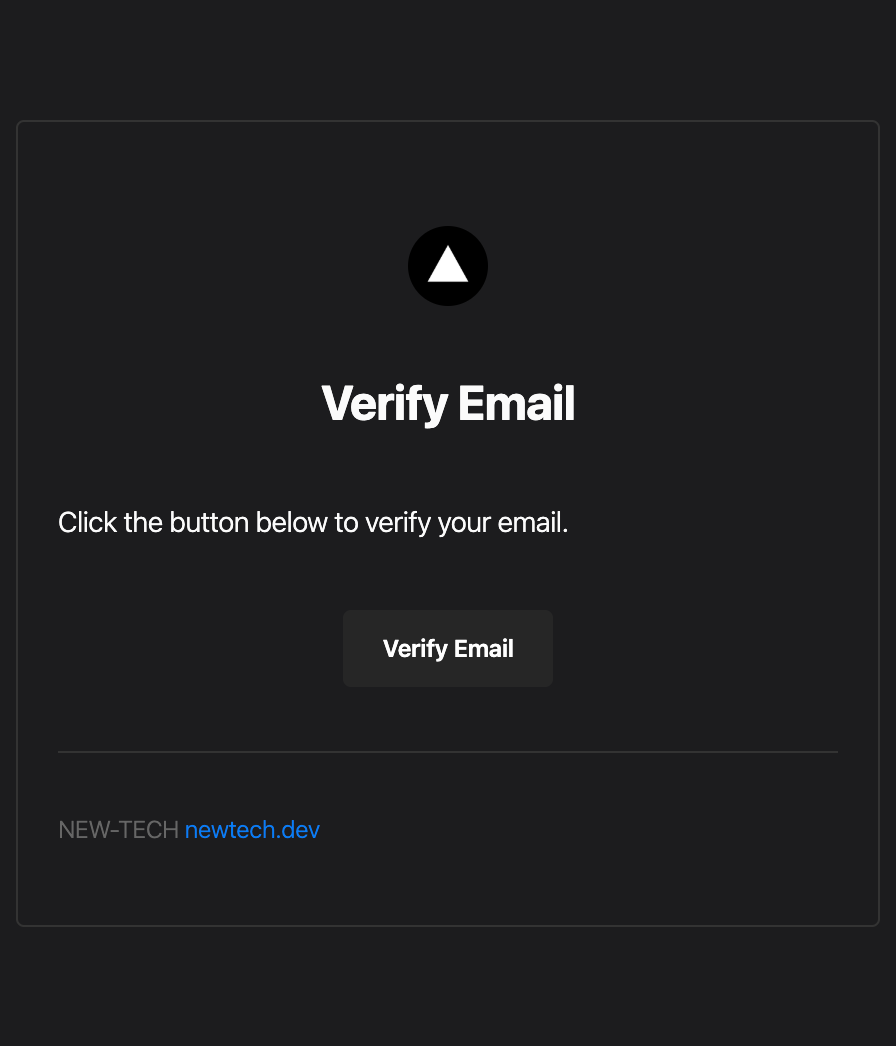
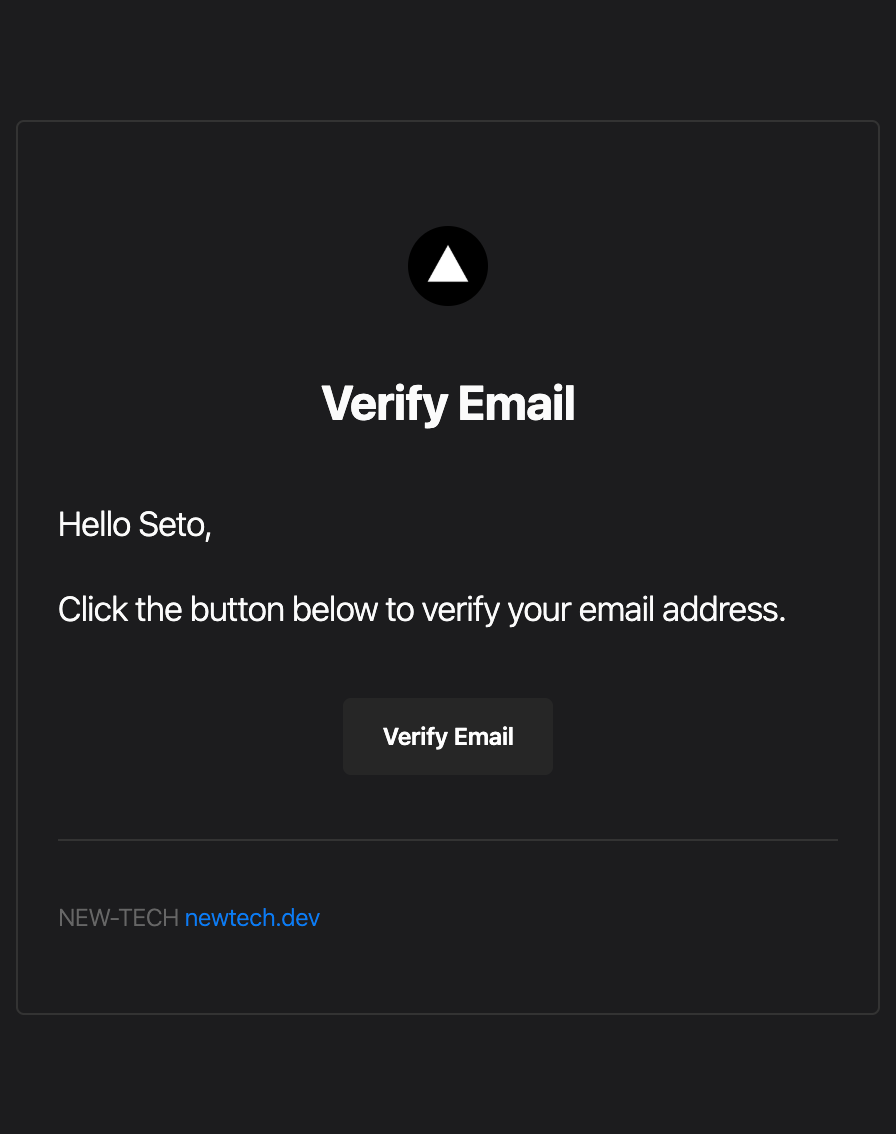
New EmailTemplate screenshots & docs

diff --git a/README.md b/README.md
@@ -24,6 +24,10 @@ Plug & play shadcn/ui auth components for [better-auth](https://better-auth.com)
 
 <img src="docs/public/screenshots/user-dropdown-dark.png" alt="User Dropdown Dark" width="182" /><img src="docs/public/screenshots/user-dropdown-light.png" alt="User Dropdown Light" width="182" />
 
+### Email Template
+
+<img src="docs/public/screenshots/email-template-dark.png" alt="Email Template Dark" width="384" /><img src="docs/public/screenshots/email-template-light.png" alt="Email Template Light" width="384" />
+
 ### Settings Cards
 
 <img src="docs/public/screenshots/settings-cards-dark.png" alt="Settings Cards Dark" width="384" /><img src="docs/public/screenshots/settings-cards-light.png" alt="Settings Cards Light" width="384" />
